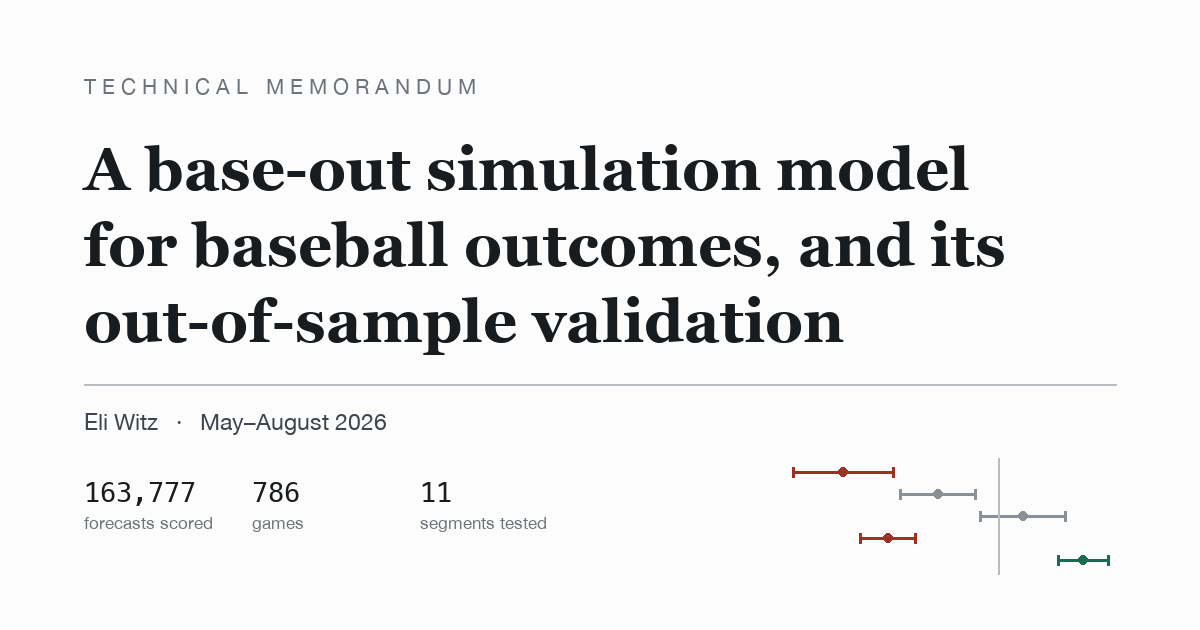
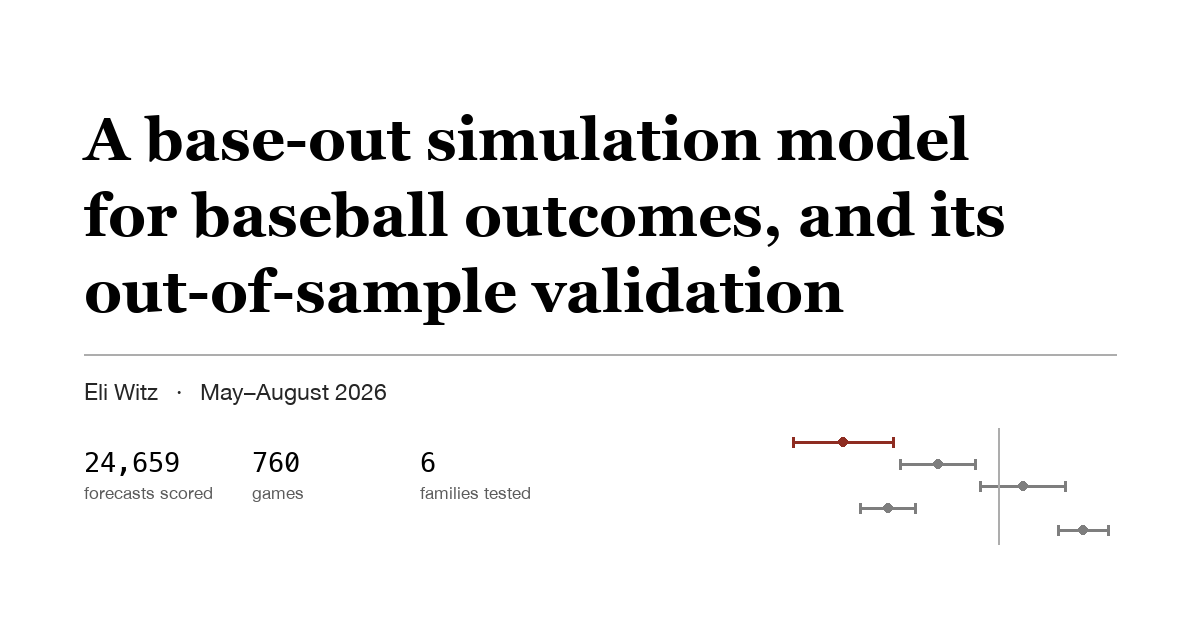
White page, black text, and centered display math
The page now commits to a single light appearance rather than following the
reader's system setting, so it looks the same for everyone: pure white ground,
black body text, with the supporting greys and the figure colors re-tuned for
that ground. color-scheme is declared so the browser does not darken scrollbars
around it.

Display equations are centered on the same axis as their captions; an
auto-margin rule on the inner mrow had been pulling the first one off-center.
The social card is regenerated to match.

diff --git a/docs/index.html b/docs/index.html
@@ -28,25 +28,15 @@
 <link rel="preconnect" href="https://fonts.gstatic.com" crossorigin>
 <link rel="stylesheet" href="https://fonts.googleapis.com/css2?family=Source+Serif+4:ital,opsz,wght@0,8..60,400;0,8..60,600;1,8..60,400&family=IBM+Plex+Mono:wght@400;500&family=IBM+Plex+Sans:wght@400;500;600&display=swap">
 <style>
+/* Committed to a single light appearance: this is a document, and it should look
+   the same for every reader regardless of their system setting. color-scheme
+   keeps the browser from darkening scrollbars and form controls around it. */
 :root{
-  --paper:#FCFCFC; --ink:#191C1F; --ink-soft:#3E454C; --ink-mute:#6C737A;
-  --rule:#DEE1E4; --rule-strong:#B8BDC2;
-  --pos:#1B6B54; --neg:#9B3226; --nul:#8A9096;
-  --link:#2A4E7C;
-}
-@media (prefers-color-scheme: dark){
-  :root:not([data-theme="light"]){
-    --paper:#14171A; --ink:#E6E9EC; --ink-soft:#B7BEC5; --ink-mute:#878F97;
-    --rule:#2C3237; --rule-strong:#454C53;
-    --pos:#63BFA2; --neg:#DE8474; --nul:#79818A;
-    --link:#8FB2DC;
-  }
-}
-:root[data-theme="dark"]{
-  --paper:#14171A; --ink:#E6E9EC; --ink-soft:#B7BEC5; --ink-mute:#878F97;
-  --rule:#2C3237; --rule-strong:#454C53;
-  --pos:#63BFA2; --neg:#DE8474; --nul:#79818A;
-  --link:#8FB2DC;
+  color-scheme: light;
+  --paper:#FFFFFF; --ink:#000000; --ink-soft:#262626; --ink-mute:#5C5C5C;
+  --rule:#E2E2E2; --rule-strong:#ADADAD;
+  --pos:#16624C; --neg:#8E2C21; --nul:#7E7E7E;
+  --link:#134A94;
 }
 
 *{box-sizing:border-box}
@@ -145,7 +135,7 @@ dd{margin:0; color:var(--ink-soft); font-size:16.5px;}
 
 math{font-size:1.02em;}
 math[display="block"]{
-  display:block; margin:1.35em 0; text-align:center;
+  display:block; margin:1.5em 0; text-align:center;
   overflow-x:auto; overflow-y:hidden;
 }
 .eqnote{font-family:"IBM Plex Sans",sans-serif; font-size:13px; color:var(--ink-mute);
